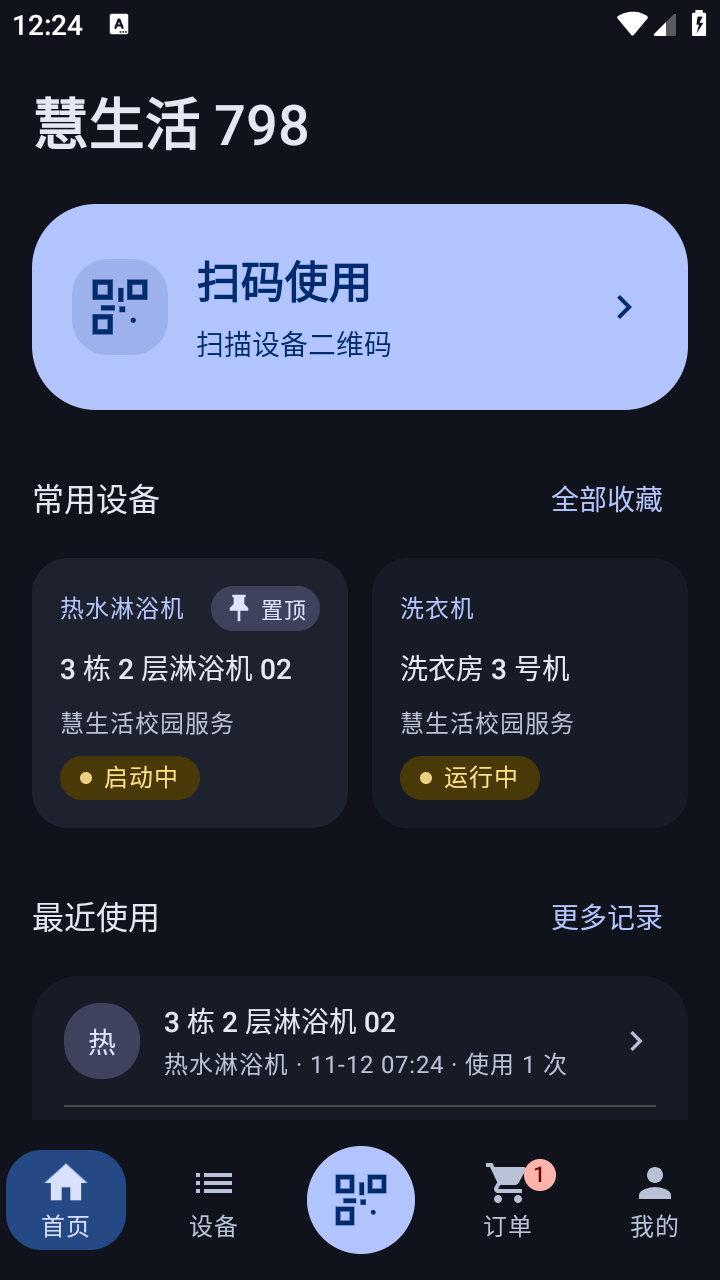
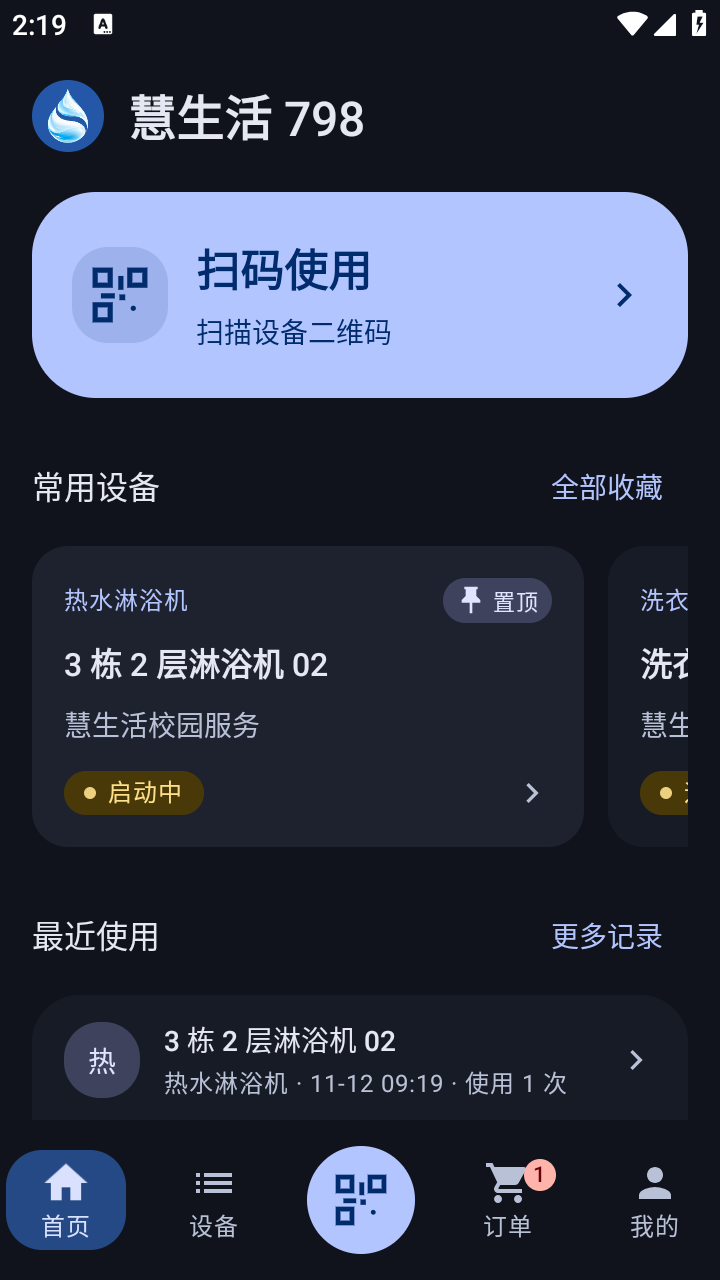
fix(ui): 加宽首页常用设备卡片

diff --git a/SmartLife798/app/src/main/java/com/smartlife798/app/ui/HomeScreen.kt b/SmartLife798/app/src/main/java/com/smartlife798/app/ui/HomeScreen.kt
@@ -2,6 +2,7 @@
 
 package com.smartlife798.app.ui
 
+import androidx.compose.foundation.Image
 import androidx.compose.foundation.background
 import androidx.compose.foundation.clickable
 import androidx.compose.foundation.layout.Arrangement
@@ -47,7 +48,10 @@ import androidx.compose.runtime.setValue
 import androidx.compose.ui.Alignment
 import androidx.compose.ui.Modifier
 import androidx.compose.ui.draw.clip
+import androidx.compose.ui.draw.scale
 import androidx.compose.ui.platform.LocalDensity
+import androidx.compose.ui.res.colorResource
+import androidx.compose.ui.res.painterResource
 import androidx.compose.ui.semantics.heading
 import androidx.compose.ui.semantics.semantics
 import androidx.compose.ui.text.font.FontWeight
@@ -56,6 +60,7 @@ import androidx.compose.ui.unit.Dp
 import androidx.compose.ui.unit.dp
 import androidx.lifecycle.compose.collectAsStateWithLifecycle
 import com.smartlife798.app.QrGlyph
+import com.smartlife798.app.R
 import com.smartlife798.app.core.ActiveUsage
 import com.smartlife798.app.core.Device
 import com.smartlife798.app.core.DeviceState
@@ -155,12 +160,26 @@ fun HomeScreen(
             verticalArrangement = Arrangement.spacedBy(20.dp),
         ) {
             item(key = "title") {
-                Text(
-                    "慧生活 798",
-                    modifier = Modifier.semantics { heading() },
-                    style = MaterialTheme.typography.headlineMedium,
-                    fontWeight = FontWeight.SemiBold,
-                )
+                Row(
+                    verticalAlignment = Alignment.CenterVertically,
+                    horizontalArrangement = Arrangement.spacedBy(AppLayout.Gap),
+                ) {
+                    Image(
+                        painter = painterResource(R.drawable.ic_launcher_artwork),
+                        contentDescription = null,
+                        modifier = Modifier
+                            .size(36.dp)
+                            .clip(MaterialTheme.shapes.medium)
+                            .background(colorResource(R.color.launcher_background))
+                            .scale(1.35f),
+                    )
+                    Text(
+                        "慧生活 798",
+                        modifier = Modifier.semantics { heading() },
+                        style = MaterialTheme.typography.headlineSmall,
+                        fontWeight = FontWeight.SemiBold,
+                    )
+                }
             }
             if (cardActive != null) {
                 item(key = "active") {
@@ -190,10 +209,11 @@ fun HomeScreen(
                         favorites.isEmpty() -> HomeEmptyState("在设备详情中收藏，常用设备就会显示在这里。")
                         else -> BoxWithConstraints(Modifier.fillMaxWidth()) {
                             val gap = AppLayout.Gap
-                            val pairWidth = (maxWidth - gap) / 2
-                            val readableWidth = 132.dp * LocalDensity.current.fontScale
-                            val tileWidth = if (pairWidth >= readableWidth) {
-                                pairWidth.coerceAtMost(220.dp)
+                            val peekWidth = 40.dp
+                            val widthWithPeek = maxWidth - gap - peekWidth
+                            val readableWidth = 192.dp * LocalDensity.current.fontScale
+                            val tileWidth = if (ordered.size > 1 && widthWithPeek >= readableWidth) {
+                                widthWithPeek
                             } else {
                                 maxWidth
                             }
@@ -449,7 +469,7 @@ private fun FavoriteTile(
             containerColor = if (pinned) colors.surfaceContainer else colors.surfaceContainerLow,
         ),
     ) {
-        Column(Modifier.padding(14.dp), verticalArrangement = Arrangement.spacedBy(8.dp)) {
+        Column(Modifier.padding(AppLayout.Card), verticalArrangement = Arrangement.spacedBy(8.dp)) {
             Row(
                 modifier = Modifier.fillMaxWidth(),
                 horizontalArrangement = Arrangement.SpaceBetween,
@@ -467,19 +487,31 @@ private fun FavoriteTile(
             }
             Text(
                 device.name.ifBlank { type },
-                style = MaterialTheme.typography.titleSmall,
-                color = MaterialTheme.colorScheme.onSurface,
+                style = MaterialTheme.typography.titleMedium,
+                fontWeight = FontWeight.SemiBold,
                 maxLines = 1,
                 overflow = TextOverflow.Ellipsis,
             )
             Text(
                 deviceSubtitle(device, includeType = false),
-                style = MaterialTheme.typography.bodySmall,
-                color = MaterialTheme.colorScheme.onSurfaceVariant,
+                style = MaterialTheme.typography.bodyMedium,
+                color = colors.onSurfaceVariant,
                 maxLines = 1,
                 overflow = TextOverflow.Ellipsis,
             )
-            StatusPill(device.stateLabel())
+            Row(
+                modifier = Modifier.fillMaxWidth().padding(top = 4.dp),
+                verticalAlignment = Alignment.CenterVertically,
+                horizontalArrangement = Arrangement.SpaceBetween,
+            ) {
+                StatusPill(device.stateLabel())
+                Icon(
+                    Icons.AutoMirrored.Filled.KeyboardArrowRight,
+                    contentDescription = null,
+                    modifier = Modifier.size(20.dp),
+                    tint = colors.onSurfaceVariant,
+                )
+            }
         }
     }
 }

diff --git a/SmartLife798/app/src/androidTest/java/com/smartlife798/app/VisualAlignmentChecks.kt b/SmartLife798/app/src/androidTest/java/com/smartlife798/app/VisualAlignmentChecks.kt
@@ -66,10 +66,14 @@ object VisualAlignmentChecks {
                     SystemClock.sleep(300)
                     val width = test.targetContext.resources.displayMetrics.widthPixels
                     val height = test.targetContext.resources.displayMetrics.heightPixels
+                    val scanCard = cardBounds(test, "扫码使用")
                     shell(test, "input swipe ${width / 2} ${height * 3 / 4} ${width / 2} ${height / 2} 250")
                     SystemClock.sleep(300)
                     val before = cardBounds(test, first.name)
                     check(before.top > 40 && before.bottom < height - 120) { "Pin card not fully visible: $before, screen=$height" }
+                    check(before.left == scanCard.left && before.width() >= scanCard.width() * 3 / 4) {
+                        "Favorite card is too narrow or misaligned: $before, scan=$scanCard"
+                    }
                     test.runOnMainSync { vm.togglePinned(first.id) }
                     await { first.id in vm.pinned.value && find(test, "置顶") != null }
                     val after = cardBounds(test, first.name)

diff --git a/docs/02-功能设计与UI方案.md b/docs/02-功能设计与UI方案.md
@@ -147,11 +147,11 @@ App
 
 ### 4.2 首页
 
-- 顶部显示「慧生活 798」，页面沿统一边距对齐，支持下拉刷新。
+- 顶部显示应用图标与「慧生活 798」，页面沿统一边距对齐，支持下拉刷新。
 - **进行中使用卡片**优先置于扫码入口上方（主题 tertiary 色）：受理后先显示「启动待确认」，不显示用时或声称运行；确认后显示服务端状态、更新时间与本机用时。结束使用为卡片主按钮，下方提供查看设备和使用记录。结束期间保持卡片和「正在结束…」；未确认则提示并保留查询入口。返回首页与重建恢复、轮询及并发规则见 [启动确认与对账](03-技术方案与开发计划.md#31-全自动刷新无手动刷新按钮)。
 
 - **扫码主卡**：二维码图标、操作标题与一句说明，点击整行打开相机。
-- **常用设备**采用等宽横滑卡片，手机默认对齐两张卡，窄屏大字空间不足时显示一张全宽卡；包含类型标签、名称、位置/编号、状态胶囊、置顶标记。
+- **常用设备**采用宽幅横滑卡片，多个收藏时在空间允许的情况下露出下一张卡片 40dp；仅一个收藏或窄屏大字空间不足时，卡片占满内容区。卡片以设备名称为主，按类型、名称、位置或编号、状态排列，带置顶标记与详情箭头。
 - **最近使用**在同一容器中列出最多四条记录，行间以细线分隔；显示设备名称、类型、日期时间和使用次数。
 - 常用设备为空时提示从设备详情收藏，最近使用为空时提示暂无记录。
 
@@ -361,7 +361,7 @@ App
 
 | 页面 | 文件 | 来源与限制 |
 |---|---|---|
-| 首页 | [home.png](../screenshots/home.png) | 2.2.6 / 86 离线开发构建，API 28，默认字号 |
+| 首页 | [home.png](../screenshots/home.png) | 2.2.7 / 87 离线开发构建，API 28，默认字号 |
 | 设备 | [devices.png](../screenshots/devices.png) | 2.1.1，浅色列表、置顶优先与可辨识的未选中按钮 |
 | 订单 | [orders.png](../screenshots/orders.png) | 2.1.1，普通记录 |
 | 待付款 | [preview_bills.png](../screenshots/preview_bills.png) | 2.1.1，账单筛选 |
@@ -373,7 +373,7 @@ App
 | 提示条 | [notice.png](../screenshots/notice.png) | 1.19.6，真实 Snackbar + 虚构签到响应 |
 | 账单详情 | [bill_detail.png](../screenshots/bill_detail.png) | 当前离线开发构建，固定视口、左暂不支付右去支付且等宽等高 |
 | 浅色支付面板 | [payment.png](../screenshots/payment.png) | 2.1.1，仅读取渠道，零付款/命令请求 |
-| 深色首页 | [dark.png](../screenshots/dark.png) | 2.2.6 / 86 离线开发构建，API 28，默认字号 |
+| 深色首页 | [dark.png](../screenshots/dark.png) | 2.2.7 / 87 离线开发构建，API 28，默认字号 |
 | 深色外观 | [appearance_dark.png](../screenshots/appearance_dark.png) | 本次样式开发构建 2.1.2 / 70，API 28，深色更新按钮与选项层级 |
 | 深色支付面板 | [payment_dark.png](../screenshots/payment_dark.png) | 2.1.1，未提交付款 |
 | 首次使用 | [guide-first.png](../screenshots/guide-first.png) | 2.1.1，独立离线包，三页基础卡 |
@@ -425,7 +425,7 @@ App
 
 ### 卡片与更新来源
 
-页面统一采用 AppLayout 的 16dp 外边距、16dp 卡片内边距、12dp 分组间隔及 56dp 主操作最小高度，图标和行内文字操作保持各自 Material 触控尺寸。在线状态使用绿色、运行中/启动中黄色，浅深色均保持文字对比度，离线保留原中性色。首页常用卡片使用 14dp 内边距、单行名称省略并始终预留徽标，未置顶时隐藏徽标绘制和语义但保留尺寸，避免置顶或名称长短改变高度。首页常用设备、设备列表及“我的”功能卡片使用 surfaceContainerLow，置顶卡使用 surfaceContainer 略加深；首页及设备列表共用带“置顶”文字的图钉徽标，详情操作使用同一图钉。设备页收藏、常用、最近三个列表均在筛选后按置顶优先稳定排序。
+页面统一采用 AppLayout 的 16dp 外边距、16dp 卡片内边距、12dp 分组间隔及 56dp 主操作最小高度，图标和行内文字操作保持各自 Material 触控尺寸。在线状态使用绿色、运行中/启动中黄色，浅深色均保持文字对比度，离线保留原中性色。首页常用卡片使用 16dp 内边距、单行名称省略并始终预留徽标，未置顶时隐藏徽标绘制和语义但保留尺寸，避免置顶或名称长短改变高度。首页常用设备、设备列表及“我的”功能卡片使用 surfaceContainerLow，置顶卡使用 surfaceContainer 略加深；首页及设备列表共用带“置顶”文字的图钉徽标，详情操作使用同一图钉。设备页收藏、常用、最近三个列表均在筛选后按置顶优先稳定排序。
 
 选项按钮的选中态使用浅蓝底，未选中保留浅灰底和边界，辅助选项底色进一步减弱。
 

diff --git a/README.md b/README.md
@@ -6,7 +6,7 @@
 |---|---|
 | 正式版包名 | `com.smartlife798.app` |
 | Beta 版包名 | `com.smartlife798.app.debug` |
-| 当前版本 | `2.2.6`（`versionCode 86`） |
+| 当前版本 | `2.2.7`（`versionCode 87`） |
 | 技术栈 | Kotlin 2.2 · Jetpack Compose (Material 3 Expressive) · OkHttp · CameraX + ML Kit · Alipay SDK |
 | 最低版本 | Android 7.0（API 24） |
 | 正式发布 | [最新 Release](https://github.com/wu-shanglin/Smartlife798/releases/latest) |
@@ -15,7 +15,7 @@
 
 ## 当前版本
 
-**2.2.6 / 86**（开发候选）：首页使用单一高亮扫码入口，进行中设备优先显示，常用与最近设备分组展示。
+**2.2.7 / 87**（开发候选）：首页常用设备改用宽卡片，显示设备名称、位置和状态，多台设备时预览下一张。
 
 **2.1.11 / 79** 适配原版 3.1.10 短信登录签名，补齐登录请求的 `sign` 参数。签名通过原版合成向量及离线登录验证，真实账号验收待完成。详见 [登录签名](docs/01-逆向分析报告.md#51-登录与账号)。
 
@@ -49,13 +49,13 @@
 
 ## 构建与产物
 
-2.2.6 为开发候选版本，日常试装使用独立 Debug 包。
+2.2.7 为开发候选版本，日常试装使用独立 Debug 包。
 
 唯一 Android 工程为 `SmartLife798/`；先按 [构建与运行](docs/03-技术方案与开发计划.md#4-构建与运行) 准备 JDK/SDK、本机 `local.properties`，再按 [检查与证据](docs/06-工程规范与路线图.md#2-检查与证据) 执行适用检查。release 签名及产物准备见 [版本与发布](docs/06-工程规范与路线图.md#3-版本与发布)。
 
 | 本地构建 | 文件 |
 |---|---|
-| 产物 | [`dist/SmartLife798-2.2.6-release.apk`](dist/SmartLife798-2.2.6-release.apk) |
+| 产物 | [`dist/SmartLife798-2.2.7-release.apk`](dist/SmartLife798-2.2.7-release.apk) |
 
 日常试装使用 `SmartLife798/app/build/outputs/apk/debug/app-debug.apk`。桌面的「慧生活 798 Beta 版」可与正式版并存，分别保存应用数据。上表是正式发布时的产物路径，只有明确授权打包 Release 并发布后才生成。
 
@@ -65,7 +65,7 @@
 
 ## 截图
 
-浅色与深色首页截图来自 2.2.6 / 86 的 API 28 离线构建；其他主要截图来自 2.1.1 / 69 候选的独立 `.offline` 夹具，使用真实 Compose 页面与终止式传输采集；此前默认字号与窄屏大字完成操作回归，不代表真机帧率、签到、充值或支付验收。提示条保留历史夹具来源。来源与限制见 [截图清单](docs/02-功能设计与UI方案.md#7-界面截图)。
+浅色与深色首页截图来自 2.2.7 / 87 的 API 28 离线构建；其他主要截图来自 2.1.1 / 69 候选的独立 `.offline` 夹具，使用真实 Compose 页面与终止式传输采集；此前默认字号与窄屏大字完成操作回归，不代表真机帧率、签到、充值或支付验收。提示条保留历史夹具来源。来源与限制见 [截图清单](docs/02-功能设计与UI方案.md#7-界面截图)。
 
 | 首页 | 设备 | 订单 |
 |---|---|---|

diff --git a/CHANGELOG.md b/CHANGELOG.md
@@ -7,6 +7,8 @@
 
 ## [Unreleased]
 
+- 同步加宽常用设备卡片后的浅色、深色首页截图与设计说明。
+
 - 同步首页设计说明与浅色、深色离线截图。
 
 - 同步铺满显示框的图形验证码截图。
@@ -25,6 +27,12 @@
 - 核对 2.1.10 正式发布及公开更新附件。
 
 - 任务分支完成后同步清理已合并且不再使用的本地和远端分支。
+
+## [2.2.7] - 2026-11-12
+
+> Beta 构建，未正式发布。
+
+- 加宽首页常用设备卡片，让设备名称和位置更易读；多台设备时预览下一张，窄屏大字下使用全宽卡片。页首加入应用图标。
 
 ## [2.2.6] - 2026-11-12
 
